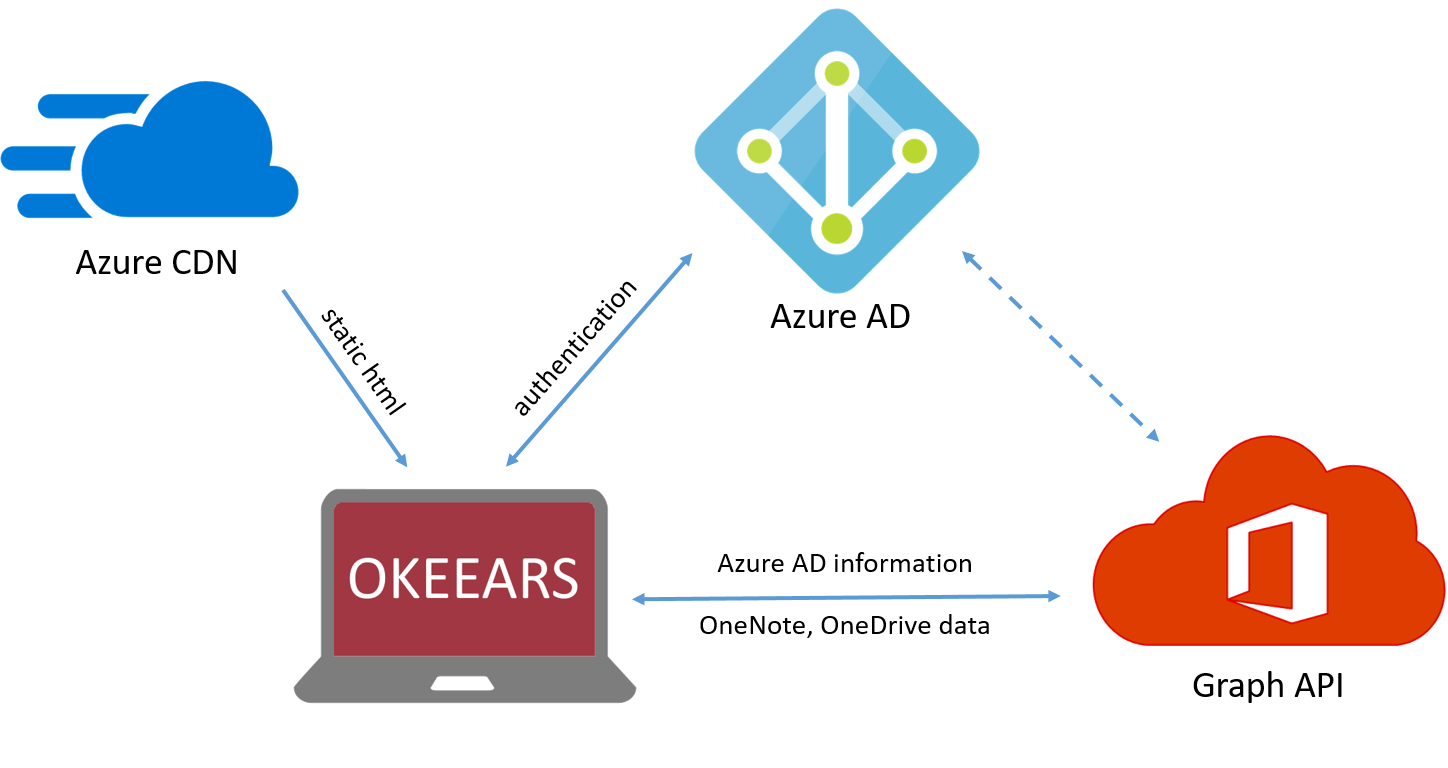
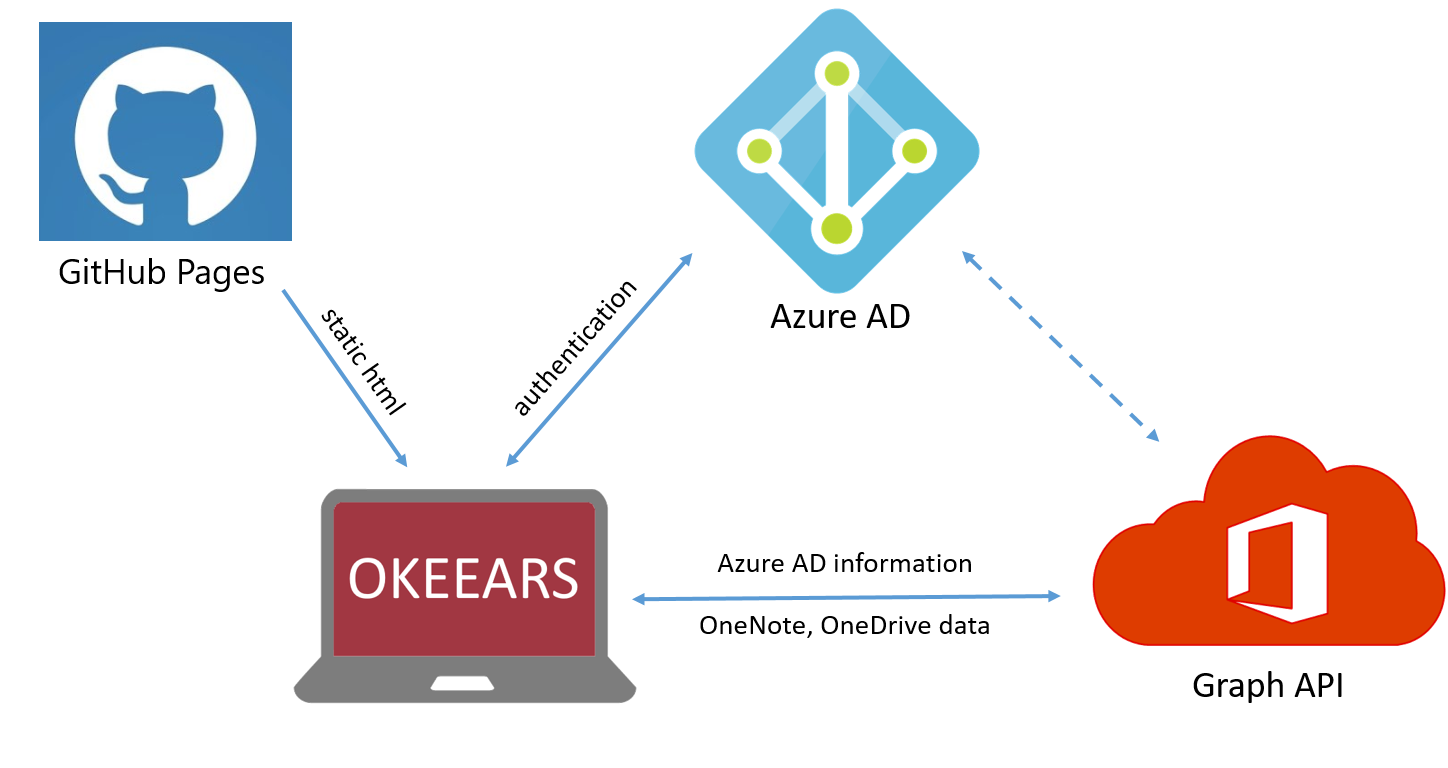
Updated repo README file (#116)

Changed region(s): [[0.0, 0.0312, 0.2175, 0.375]]

diff --git a/README.md b/README.md
@@ -1,7 +1,13 @@
 # Okeears - objectives and key results web app
 [![Build Status](https://travis-ci.org/denis1stomin/okeears.svg?branch=master)](https://travis-ci.org/denis1stomin/okeears) [![Known Vulnerabilities](https://snyk.io/test/github/denis1stomin/okeears/badge.svg?targetFile=webui%2Fpackage.json)](https://snyk.io/test/github/denis1stomin/okeears?targetFile=webui%2Fpackage.json)
 
-https://www.okeears.com/
+https://okeears.com
+
+_Production deployment is served by https://github.com/denis1stomin/okeears-prod_
+
+https://stage.okeears.com
+
+_Staging deployment is served by https://github.com/denis1stomin/okeears-stage_
 
 Okeears is a simple-to-use SaaS application which helps your team and organization to easily start charging ahead objectives and key results (OKR) process. By design the application is highly integrated with Microsoft Office 365.
 
@@ -15,7 +21,7 @@ Okeears is a simple-to-use SaaS application which helps your team and organizati
 * OneNote API is used to store the data in human-readable format.
 (You can use the OKR information in other O365-integrated systems. You can use OneNote mobile app on your phone)
 * GDPR compliant :) since OneDrive/OneNote is used as a backend solution.
-* Okeears is hosted in Azure as static web site.
+* Okeears is hosted using GitHub Pages open repositories!
 * All the code is open-source!
 
 ## High level architecture
@@ -27,42 +33,46 @@ Okeears is a simple-to-use SaaS application which helps your team and organizati
 Okeears needs you to provide a number of Azure AD `on-behalf-of` or delegated permissions.
 You can easily revoke application permissions any time on https://portal.office.com/account/#apps.
 
-* `Read all OneNote notebooks that you can access`
-Allows the app to read all the OneNote notebooks that you have access to.
+* `Read all OneNote notebooks that user can access`
+Allows the app to read OneNote notebooks that the signed-in user has access to in the organization.
 _You need the permission to look over your teammates' objectives._
 
-* `Read your OneNote notebooks`
-Allows the app to read OneNote notebooks on your behalf.
+* `Read user OneNote notebooks`
+Allows the app to read the titles of OneNote notebooks and sections and to create new pages, notebooks, and sections on behalf of the signed-in user.
 
-* `Read and write your OneNote notebooks`
-Allows the app to read, share, and modify OneNote notebooks on your behalf.
+* `Read and write user OneNote notebooks`
+Allows the app to read, share, and modify OneNote notebooks on behalf of the signed-in user.
 
-* `Create your OneNote notebooks`
-Allows the app to view the titles of your OneNote notebooks and sections and to create new pages, notebooks, and sections on your behalf.
+* `Create user OneNote notebooks`
+Allows the app to read the titles of OneNote notebooks and sections and to create new pages, notebooks, and sections on behalf of the signed-in user.
 _You need those three permissions above to work with your objectives._
 
-* `Sign you in and read your profile`
-Allows you to sign in to the app with your organizational account and let the app read your profile. It also allows the app to read basic company information.
+* `Sign-in and read user profile`
+Allows users to sign-in to the app, and allows the app to read the profile of signed-in users. It also allows the app to read basic company information of signed-in users.
 _The permission is used to retrieve basic information about your teammates._
 
 * `Read all users' basic profiles`
-Allows the app to read a basic set of profile properties of other users in your organization on your behalf. Includes display name, first and last name, email address and photo.
+Allows the app to read a basic set of profile properties of other users in your organization on behalf of the signed-in user. This includes display name, first and last name, email address, open extensions and photo. Also allows the app to read the full profile of the signed-in user.
 _The permission is used to retrieve your profile basic information._
 
-* `Read your files`
-Allows the app to read your files.
-
-* `Have full access to your files`
-Allows the app to read, create, update, and delete your files.
-_OneDrive permissions are used only to share your OKR notebook with your teammates since OneNote API currently does not provide such possibility. Theoretically OneDrive permissions will be removed from the application in future when OneNote API become more mature._
-
-* `Read your relevant people list`
-Allows the app to read a list of people in the order that's most relevant to you. This includes your local contacts, your contacts from social networking, people listed in your organization's directory, and people from recent communications.
-_Since firstly you want to look at objectives of people most relevant to you, Okeears automatically suggests you those people list. See links below to find more details about relevant people list._
-
-* __Not requested by Okeears currently__ `Read all users' full profiles`
+* __NOT REQUESTED CURRENTLY__ `Read all users' full profiles`
 Allows the app to read the full set of profile properties, reports, and managers of other users in your organization, on behalf of the signed-in user.
 _The permission requires admin consent, therefore it is not requested by Okeears currently. But the permission is under consideration to be added in the future. Using this permission Okeears could retrieve full organizational structure relevant to you like it is done in Microsoft Delve. It will help you to align your goals with your managers tree._
+
+* `Read user files`
+Allows the app to read the signed-in user's files.
+
+* __NOT REQUESTED CURRENTLY__ `Have full access to the application's folder`
+Allows the app to read, create, update, and delete files in the application's folder.
+_In theory this permission will replace all other notes/files permissions in the future. It will be used to store Okeears users' data._
+
+* `Read users' relevant people lists`
+Allows the app to read a scored list of people relevant to the signed-in user. The list can include local contacts, contacts from social networking or your organization's directory, and people from recent communications (such as email and Skype).
+_Since firstly you want to look at objectives of people most relevant to you, Okeears automatically suggests you those people list. See links below to find more details about relevant people list._
+
+* `Read and write app activity to users' activity feed`
+Allows the app to read and report the signed-in user's activity in the app.
+_Okeears uses this permission to update your activity feed._
 
 
 ## Useful links
